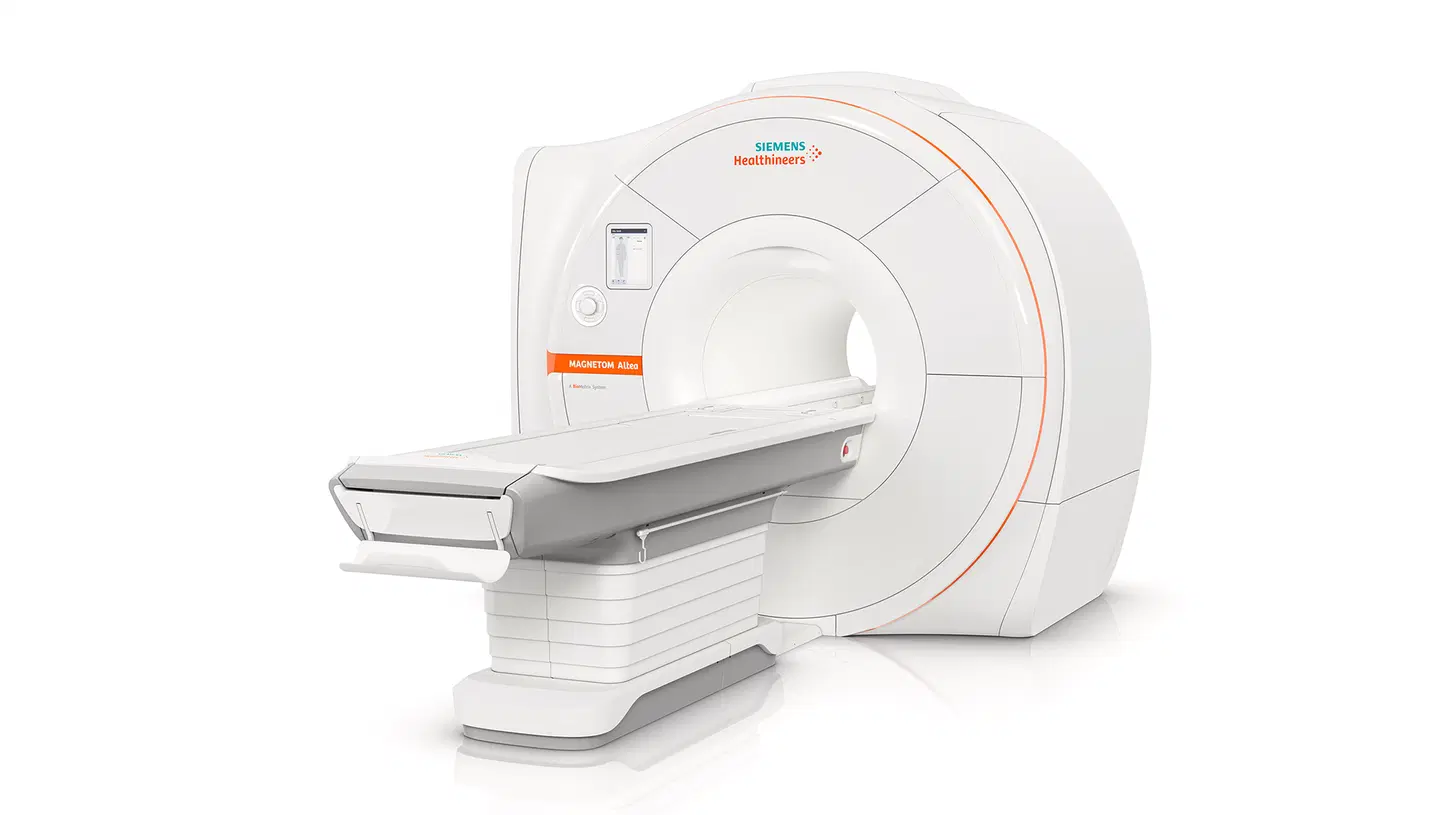
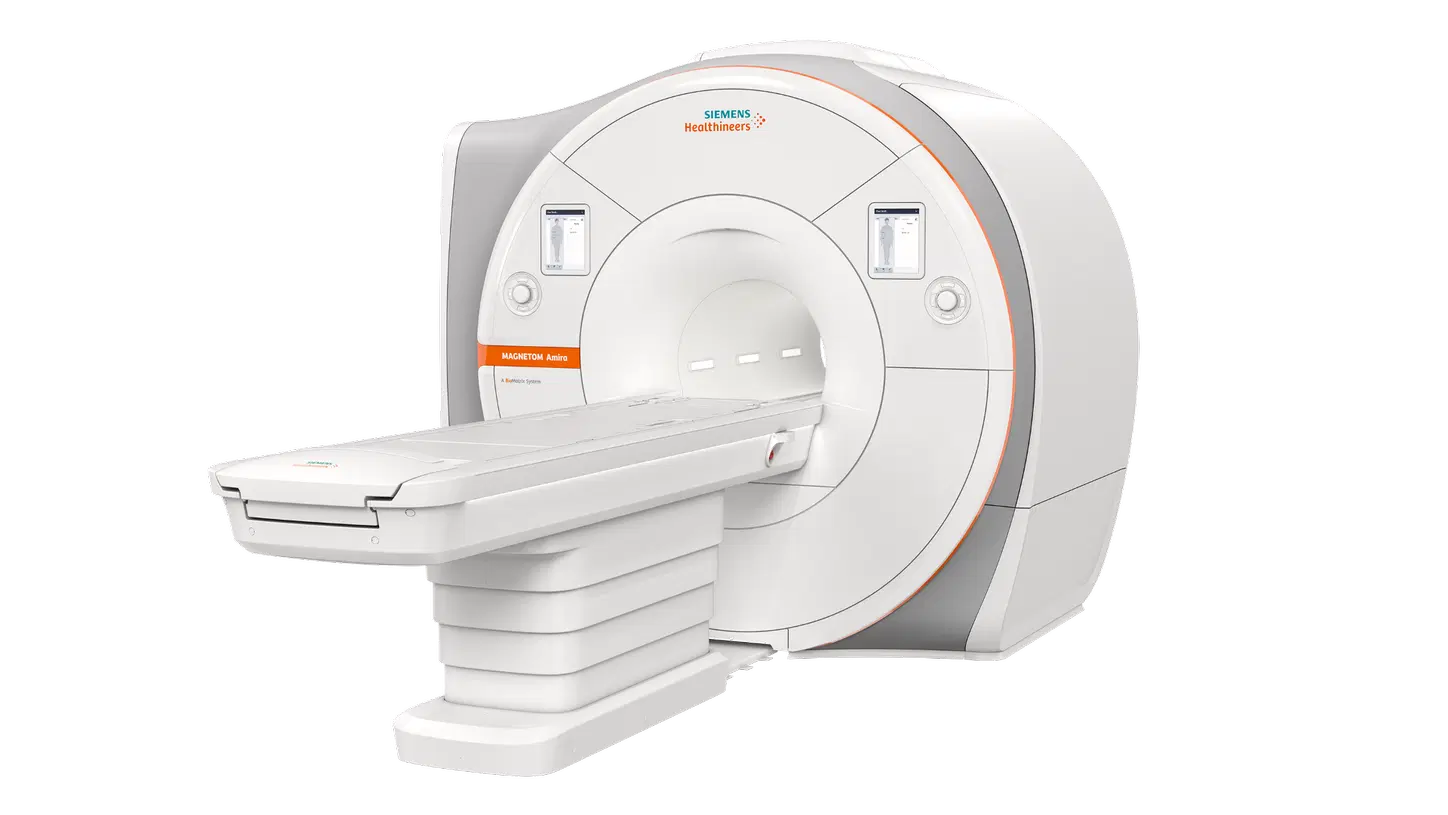
add: mais informações de ressonância adicionadas

Changed region(s): [[0.1243, 0.0613, 0.808, 0.9509], [0.5283, 0.2454, 0.5594, 0.2761], [0.4972, 0.3374, 0.5283, 0.3681]]

diff --git a/src/html/ressonancia.html b/src/html/ressonancia.html
@@ -5,50 +5,54 @@
     <meta charset="UTF-8">
     <meta name="viewport" content="width=device-width, initial-scale=1.0">
     <title>Informações Ressonância Magnética</title>
+    <link rel="stylesheet" href="/src/css/reference.css">
     <link rel="stylesheet" href="/src/css/iframes.css">
     <link rel="stylesheet" href="/src/css/ressonancia.css">
 </head>
 
-<body style="color:#fff">
+<body>
     <h1>Ressonância Magnética</h1>
     <main>
         <section id="informacoes-fixas">
-            <div id="especificacoes-container">
+            <div id="equipamento-container">
                 <div id="foto-equipamento-container">
                     <img src="/src/img/equipamento-rm.png" alt="Magnetom Altea" id="foto-equipamento">
-                    <p>Fonte: <q><a
-                                href="https://www.siemens-healthineers.com/br/magnetic-resonance-imaging/0-35-to-1-5t-mri-scanner/magnetom-altea#05845495"
-                                target="_blank">https://www.siemens-healthineers.com</a></q>
+                    <p id="texto-fonte-imagem">Fonte: <q><a
+                        href="https://www.siemens-healthineers.com/br/magnetic-resonance-imaging/0-35-to-1-5t-mri-scanner/magnetom-altea#05845495"
+                        target="_blank">https://www.siemens-healthineers.com</a></q>
                     </p>
                 </div>
-                <table class="tabela-especificacoes">
-                    <thead>
-                        <tr>
-                            <th>Especificações técnicas</th>
-                        </tr>
-                    </thead>
-                    <tbody>
-                        <tr>
-                            <td>Peso máximo suportado</td>
-                            <td>200kg</td>
-                        </tr>
-                        <tr>
-                            <td>Comprimento do equipamento</td>
-                            <td>1,57m</td>
-                        </tr>
-                        <tr>
-                            <td>Força de campo</td>
-                            <td>1,5 Tesla</td>
-                        </tr>
-                        <tr>
-                            <td>Tamanho do furo</td>
-                            <td>70cm</td>
-                        </tr>
-                    </tbody>
-                </table>
+                <div id="especificacoes-container">
+                    <h2 id="nome-equipamento">MAGNETOM Altea</h2>
+                    <table class="tabela-especificacoes">
+                        <thead>
+                            <tr>
+                                <th class="titulo-tabela">Especificações técnicas</th>
+                            </tr>
+                        </thead>
+                        <tbody>
+                            <tr>
+                                <td class="texto-tabela">Peso máximo suportado</td>
+                                <td class="texto-tabela">200kg</td>
+                            </tr>
+                            <tr>
+                                <td class="texto-tabela">Comprimento do equipamento</td>
+                                <td class="texto-tabela">1,57m</td>
+                            </tr>
+                            <tr>
+                                <td class="texto-tabela">Força de campo</td>
+                                <td class="texto-tabela">1,5 Tesla</td>
+                            </tr>
+                            <tr>
+                                <td class="texto-tabela">Tamanho do furo</td>
+                                <td class="texto-tabela">70cm</td>
+                            </tr>
+                        </tbody>
+                    </table>
+                </div>
             </div>
-            <article>
-                <h2>Ressonâncias <b>com contraste</b> no mesmo dia</h2>
+            <h2>Ressonâncias com contraste no mesmo dia</h2>
+            <article id="ressonancias-mesmo-dia">
                 <div id="lista-permitidas" class="lista-container">
                     <p>Permitidas</p>
                     <ul>

diff --git a/src/css/ressonancia.css b/src/css/ressonancia.css
@@ -1,12 +1,77 @@
-#especificacoes-container {
+* {
+    --magnetom-color: #ec6603;
+}
+
+#equipamento-container {
+    background-color: #fff;
     display: flex;
     flex-direction: row;
-    justify-content: flex-start;
+    justify-content: space-around;
     align-items: center;
+    max-width: 97vw;
 }
 
 #foto-equipamento {
-    height: 300px;
-    width: 360px;
+    max-height: 300px;
+    max-width: 400px;
     object-fit: cover;
+}
+
+#nome-equipamento {
+    font-size: 2rem;
+    color: var(--magnetom-color);
+    /* font-family: 'Work Sans', sans-serif; */
+}
+
+#texto-fonte-imagem {
+    font-size: .75rem;
+    text-align: center;
+    quotes: none;
+    color: #000;
+}
+
+#texto-fonte-imagem a {
+    color: #000;
+}
+
+#texto-fonte-imagem a:hover {
+    color: var(--primary);
+}
+
+#especificacoes-container {
+    display: flex;
+    flex-direction: column;
+    justify-content: space-evenly;
+    height: 300px;
+    width: 350px;
+}
+
+#tabela-especificacoes{
+    max-width: 10rem;
+}
+
+.texto-tabela {
+    color: #000;
+}
+
+.titulo-tabela {
+    font-size: 1.125rem;
+    color: #000;
+    text-align: left;
+}
+
+#ressonancias-mesmo-dia {
+    max-width: 97vw;
+    display: flex;
+    flex-direction: row;
+    justify-content: space-between;
+    background: var(--red);
+}
+
+.lista-container {
+    padding: 12px;
+}
+
+ul {
+    list-style: none;
 }
